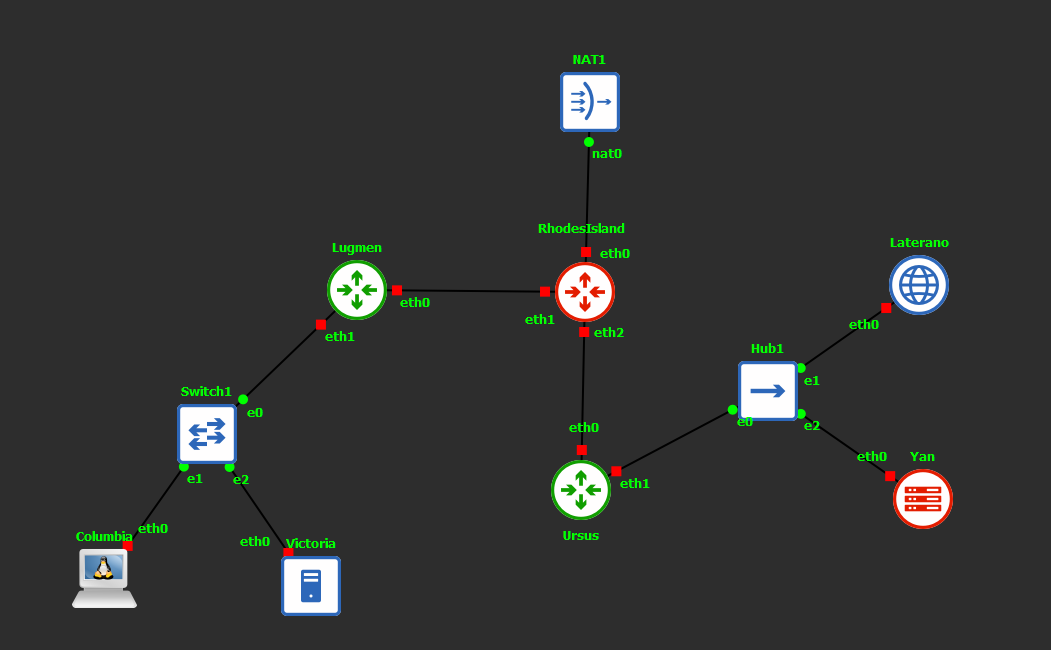
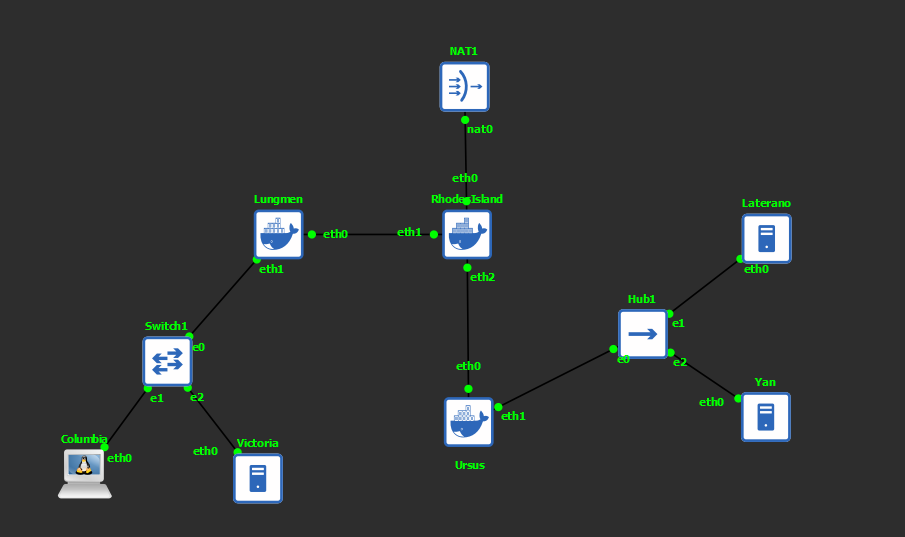
feat: add topology

diff --git a/README.md b/README.md
@@ -11,7 +11,7 @@
 
 #### Put your GNS3 Project files here (gdrive or github upload)!
 
-`Put file URL here`
+![topology](./src/topology.gns3project)
 
 ---
 
